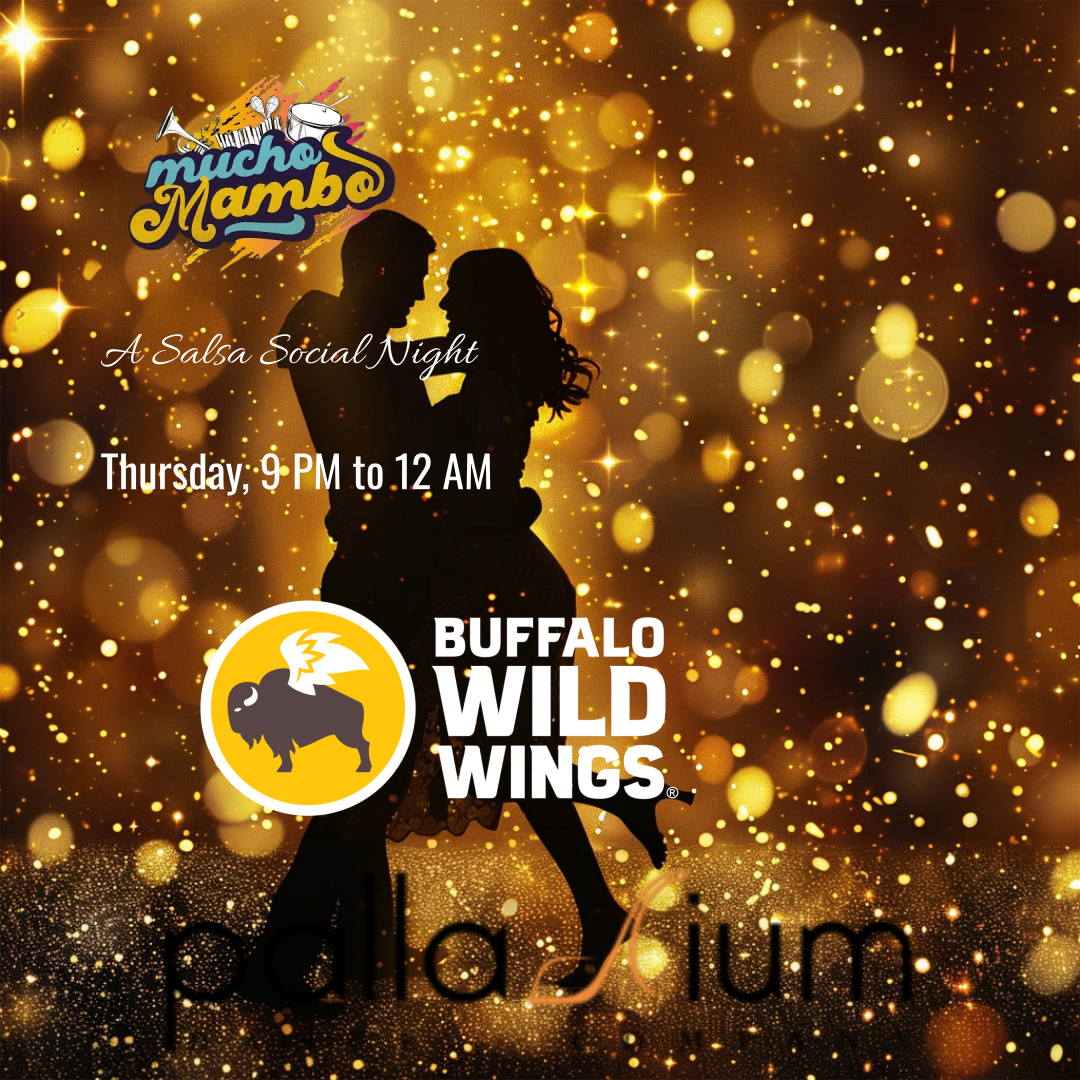
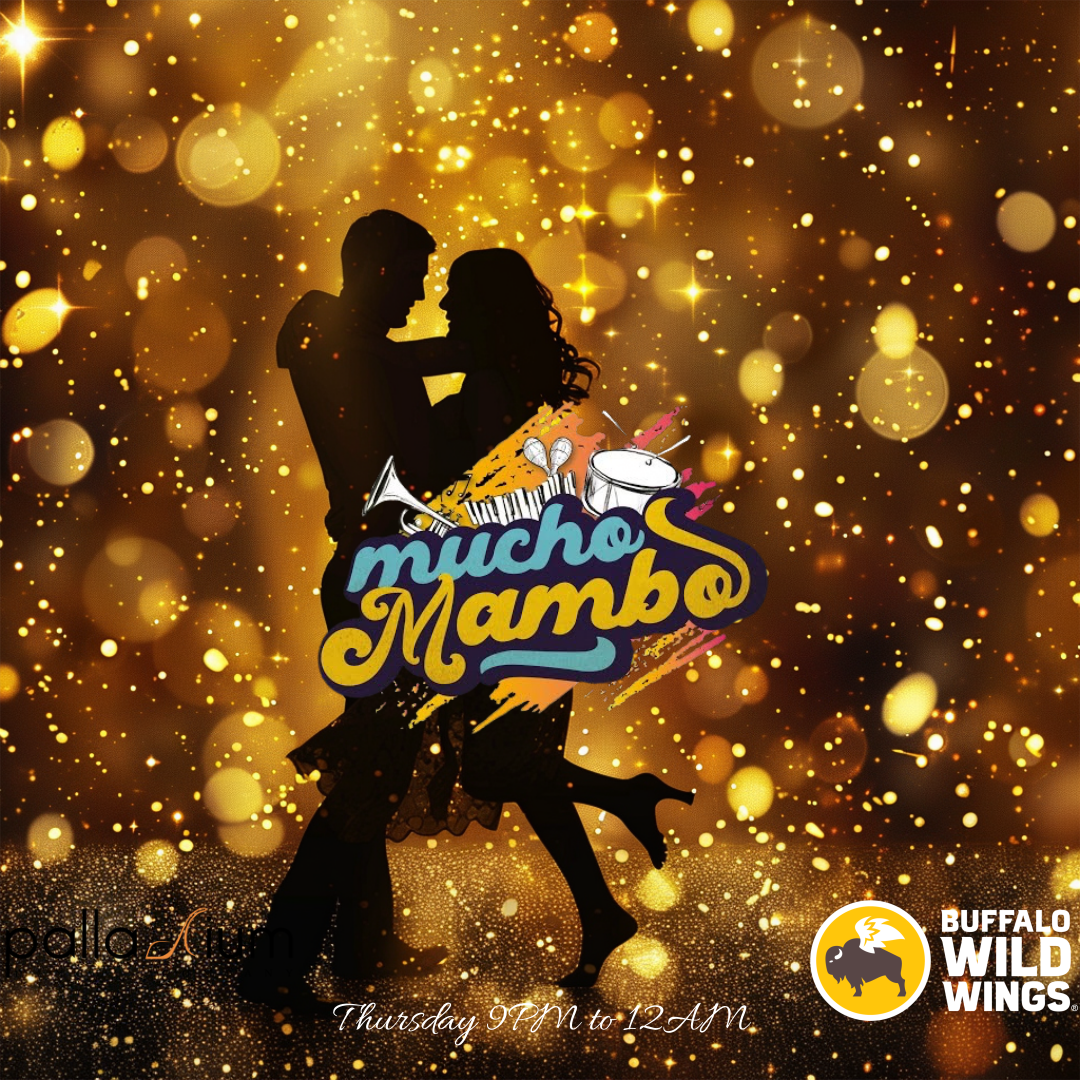
wip

diff --git a/step3.js b/step3.js
@@ -125,11 +125,11 @@ async function createCanvas() {
     // Add all the assets to Canvas
     for (let i = 0; i < step2_output.assets.length; i++) {
         asset = step2_output.assets[i]
-        await addAssetToCanvas(asset.asset_uri, asset.width, asset.height, asset.x, asset.y)
+        await addAssetToCanvas(asset.asset_uri, asset.width, asset.height, asset.left, asset.top)
     }
     // Add all the texts to Canvas
     const textElements = step2_output.texts.map(t => {
-        return createDynamicText(t.content, t.x, t.y, t.font_family, 'regular', "#FFFFFF", t.font_size, 'normal');
+        return createDynamicText(t.content, t.center_x, t.center_y, t.font_family, 'regular', "#FFFFFF", t.font_size, 'normal');
     })
     const group = new fabric.Group(textElements, {});//check
     canvas.add(group);
@@ -179,10 +179,10 @@ function createDynamicText(text, left, top, fontFamily, fontWeight, fill, fontSi
     const textWidth = getTextWidth(text, fontFamily, fontWeight, fontSize);
 
     // Adjust the left position to center the text horizontally
-    // textbox.set({
-    //     // fontSize: fontSize,
-    //     left: left - (textWidth / 2)
-    // });
+    textbox.set({
+        // fontSize: fontSize,
+        left: left - (textWidth / 2)
+    });
 
     return textbox;
 }

diff --git a/step2_schema.py b/step2_schema.py
@@ -3,15 +3,15 @@ from typing import List
 
 
 class Asset(BaseModel):
-    x: int
-    y: int
+    left: int = Field(..., description="x co-ordinate of the asset in pixels")
+    top: int = Field(..., description="y co-ordinate of the asset in pixels")
     width: int
     height: int
     asset_uri: str
 
 class Text(BaseModel):
-    x: int
-    y: int
+    center_x: int = Field(..., description="x co-ordinate of the center of the text in pixels")
+    center_y: int = Field(..., description="y co-ordinate of the center of the text in pixels")
     font_size: int
     font_family: str
     content: str

diff --git a/step2.py b/step2.py
@@ -17,6 +17,9 @@ if __name__ == "__main__":
         os.makedirs(config['STEP3_OUTPUT_FOLDER'])
     i = 0
     for url in step1_response['urls']:
+        fpath = os.path.join(config['STEP0_OUTPUT_FOLDER'],f"step1_output{i}.json")
+        with open(fpath, 'r') as f:
+            step1_response = json.load(f)
         system_prompt = step2_system_prompt.replace(r"<width>", str(step1_response['width'])).replace(r"<height>", str(step1_response['height']))
         llm_output = askgpt(json.dumps(step1_response['elements']), system=system_prompt)
         step2_response = getjson(llm_output)

diff --git a/step1_schema.py b/step1_schema.py
@@ -6,6 +6,7 @@ class Element(BaseModel):
     description: str = Field(..., description="description of the contents of the element")
     asset: str = Field(None, description="asset associated with the element")
     placement: str = Field(..., description="placement of the element within the poster")
+    important: bool = Field(..., description="True if the element is the most prominent element")
     style: str = Field(None, description="description of the design theme related to this element")
 
 class Outline(BaseModel):
